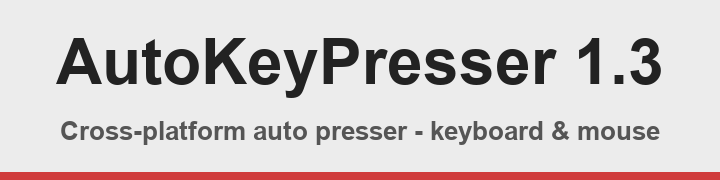
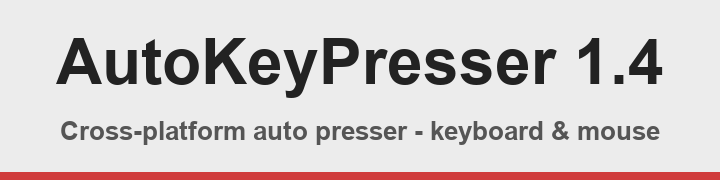
Remove PyAutoGUI pause bottleneck

Changed region(s): [[0.8556, 0.1944, 0.9472, 0.4722]]

diff --git a/tests/test_engine.py b/tests/test_engine.py
@@ -1,6 +1,7 @@
 import unittest
 from unittest import mock
 
+import autoclicker.engine as engine_module
 from autoclicker.engine import PressEngine, PressSettings
 
 
@@ -12,6 +13,18 @@ def make_engine(**overrides):
 
 
 class PressEngineTests(unittest.TestCase):
+    def test_start_disables_pyautogui_default_pause(self):
+        settings = make_engine(repeat_until_stopped=False, repeat_count=1, interval_seconds=0)
+        with mock.patch("autoclicker.engine.pyautogui.click") as click:
+            engine = PressEngine(settings, on_status=lambda _m: None)
+            engine.start()
+            thread = engine._thread
+            thread.join(timeout=2)
+        self.assertEqual(click.call_count, 1)
+        self.assertEqual(engine.count, 1)
+        self.assertEqual(engine.settings.interval_seconds, 0)
+        self.assertEqual(engine_module.pyautogui.PAUSE, 0)
+
     def test_repeat_count_stops_after_n(self):
         settings = make_engine(repeat_until_stopped=False, repeat_count=3, interval_seconds=0)
         statuses = []

diff --git a/autoclicker/engine.py b/autoclicker/engine.py
@@ -55,6 +55,9 @@ class PressEngine:
     def _run(self):
         try:
             pyautogui.FAILSAFE = False
+            # PyAutoGUI defaults to a 100 ms pause after every call, which
+            # caps the presser at roughly 10 actions per second.
+            pyautogui.PAUSE = 0
             interval = max(self.settings.interval_seconds, 0.001)
             limit = None if self.settings.repeat_until_stopped else max(
                 self.settings.repeat_count, 0

diff --git a/tests/test_app.py b/tests/test_app.py
@@ -58,8 +58,8 @@ class SettingsTests(unittest.TestCase):
 
 class UpdaterTests(unittest.TestCase):
     def test_version_comparison(self):
-        self.assertTrue(updater.is_newer("v1.4"))
-        self.assertFalse(updater.is_newer("v1.3"))
+        self.assertTrue(updater.is_newer("v1.5"))
+        self.assertFalse(updater.is_newer("v1.4"))
         self.assertFalse(updater.is_newer("not-a-version"))
 
     def test_windows_installer_asset(self):

diff --git a/scripts/generate_banner.py b/scripts/generate_banner.py
@@ -22,7 +22,7 @@ bold = next((f for f in fonts if f.exists()), None)
 title_font = ImageFont.truetype(str(bold), 64) if bold else ImageFont.load_default()
 sub_font = ImageFont.truetype(str(bold), 26) if bold else ImageFont.load_default()
 
-title = "AutoKeyPresser 1.3"
+title = "AutoKeyPresser 1.4"
 sub = "Cross-platform auto presser - keyboard & mouse"
 
 tw = draw.textlength(title, font=title_font)

diff --git a/autoclicker/updater.py b/autoclicker/updater.py
@@ -7,7 +7,7 @@ import tempfile
 import urllib.request
 from pathlib import Path
 
-CURRENT_VERSION = "1.3"
+CURRENT_VERSION = "1.4"
 REPOSITORY = "CamjamPNG/autokeypresser"
 RELEASES_API = f"https://api.github.com/repos/{REPOSITORY}/releases/latest"
 RELEASES_PAGE = f"https://github.com/{REPOSITORY}/releases/latest"

diff --git a/autoclicker/app.py b/autoclicker/app.py
@@ -10,7 +10,7 @@ from .engine import PressEngine, PressSettings
 from .profiles import load_profiles, save_profiles
 from . import updater
 
-APP_NAME = "AutoKeyPresser 1.3"
+APP_NAME = "AutoKeyPresser 1.4"
 
 HOTKEY_MODS = [
     "None",

diff --git a/README.md b/README.md
@@ -1,5 +1,5 @@
 <p align="center">
-	<img src="img/banner.png" alt="AutoKeyPresser 1.3" />
+	<img src="img/banner.png" alt="AutoKeyPresser 1.4" />
 </p>
 
 <p align="center">
@@ -15,7 +15,7 @@ AutoKeyPresser is an open-source, easy to use, cross-platform auto presser for
 any mouse button, on a classic Windows-style utility interface.
 
 ![Example image](img/example.png)
-*v1.3*
+*v1.4*
 
 [![forthebadge](https://forthebadge.com/images/badges/made-with-python.svg)](https://www.python.org/)
 
